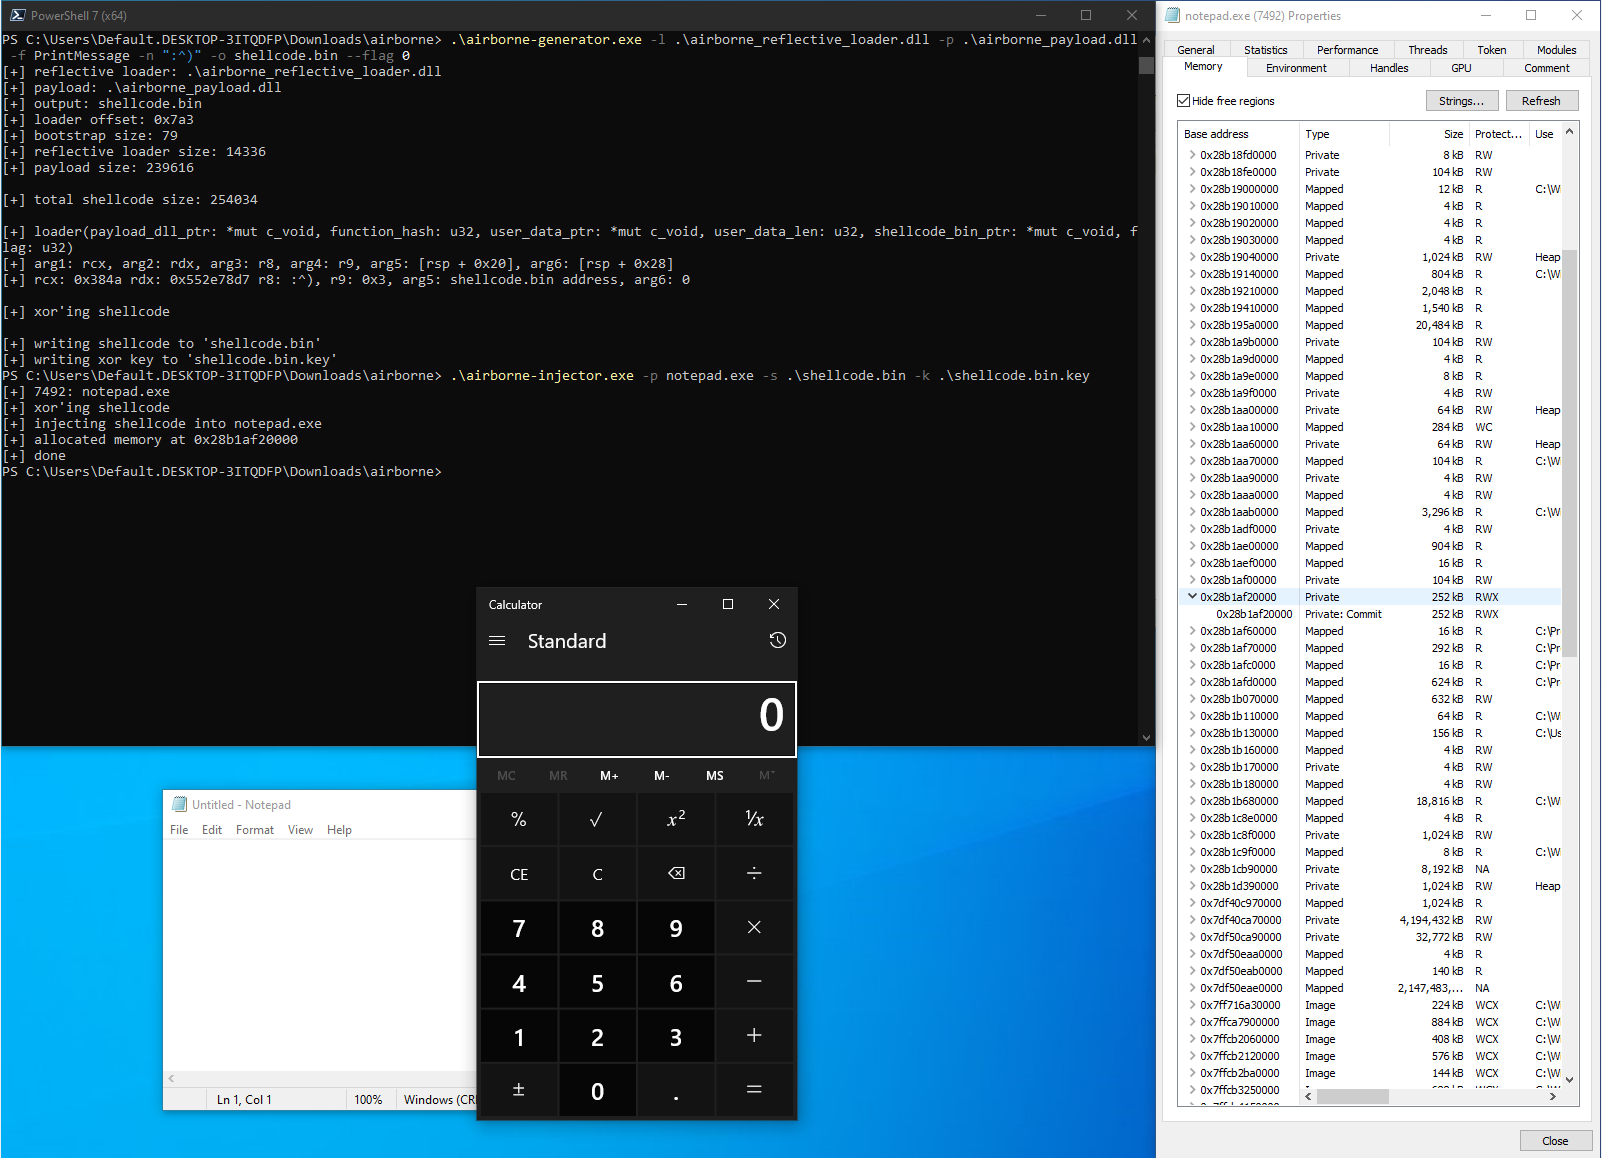
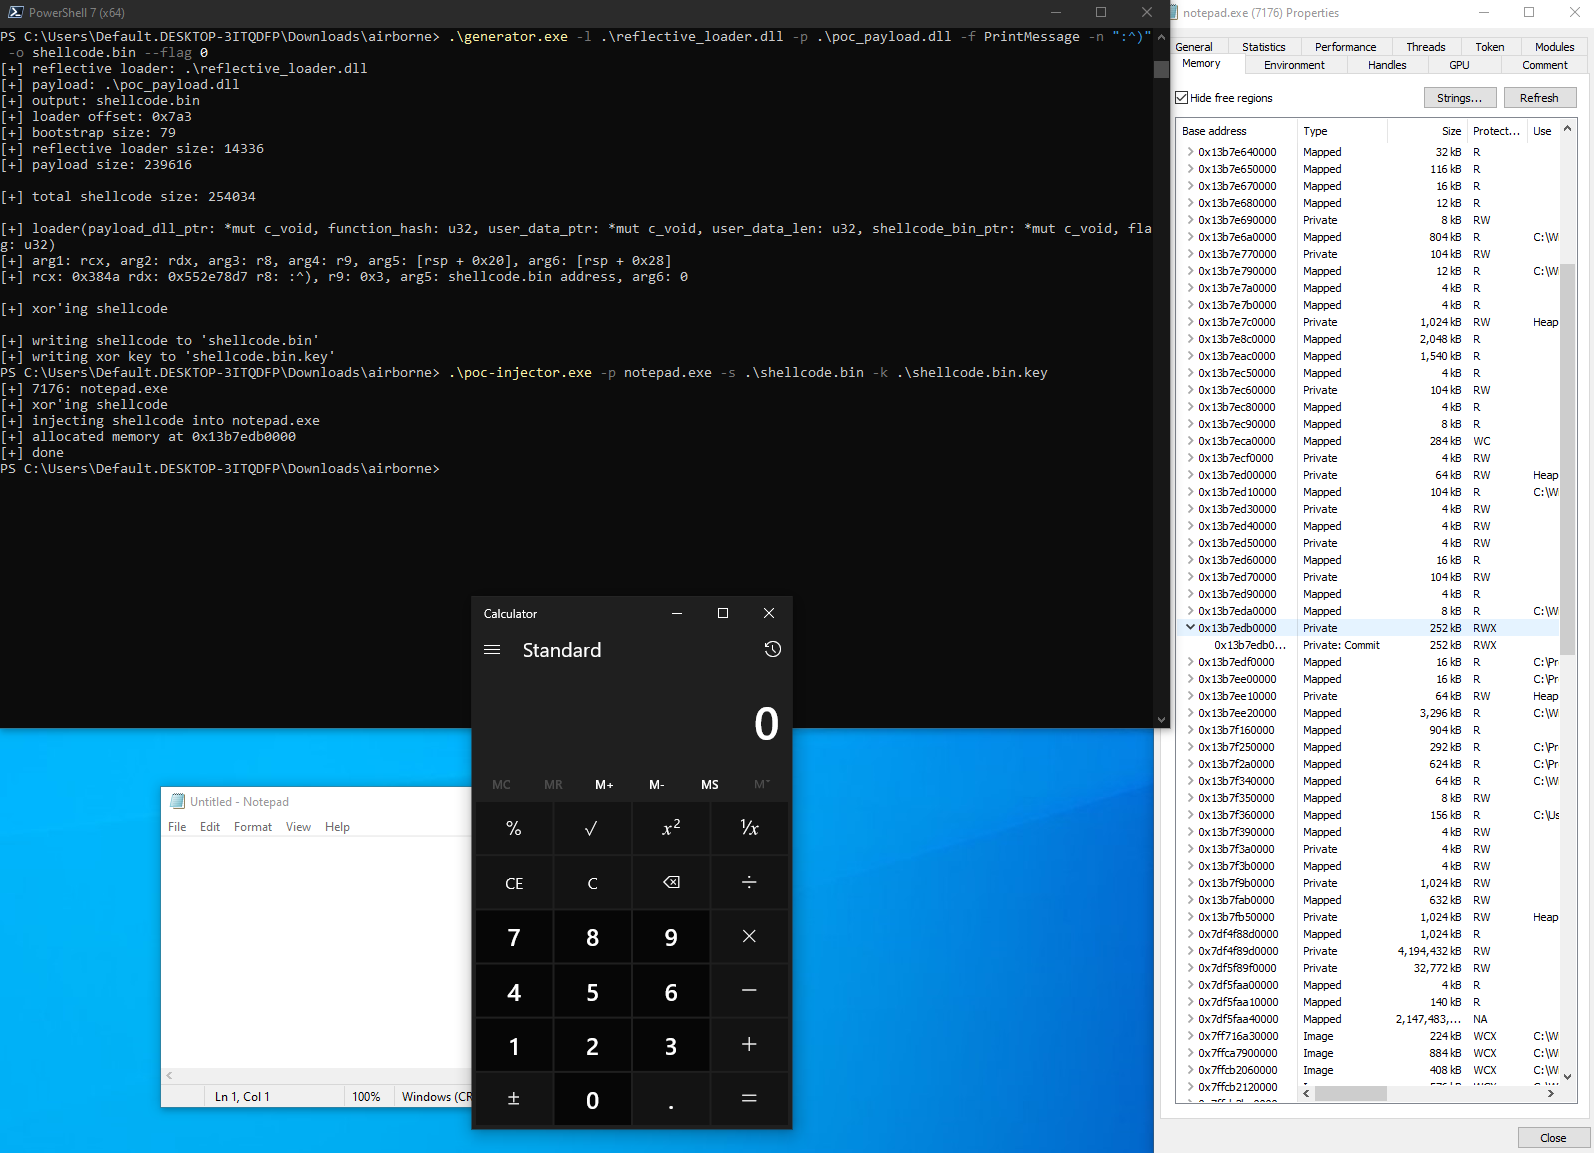
updated the names of the workspace subprojects

diff --git a/injector/src/main.rs b/injector/src/main.rs
@@ -85,7 +85,5 @@ fn parse_args() -> Args {
 }
 
 fn print_usage() {
-    println!(
-        "Usage: airborne-injector.exe -p <process_name> -s <shellcode_path> -k <keyfile_path>"
-    );
+    println!("Usage: poc-injector.exe -p <PROCESS_NAME> -s <SHELLCODE_PATH> -k <KEYFILE_PATH>");
 }

diff --git a/README.md b/README.md
@@ -33,30 +33,31 @@ $ cargo build --release
 1. Generate shellcode containing the loader and the payload:
 
 ```
-Usage: airborne-generator.exe [OPTIONS] --loader <LOADER_PATH> --payload <PAYLOAD_PATH> --function <FUNCTION_NAME> --parameter <PARAMETER> --output <OUTPUT_PATH>
+Usage: generator.exe [OPTIONS] --loader <LOADER_PATH> --payload <PAYLOAD_PATH> --function <FUNCTION_NAME> --parameter <PARAMETER> --output <OUTPUT_PATH>
 
 Options:
--l, --loader <LOADER_PATH>      Path to the sRDI loader DLL
--p, --payload <PAYLOAD_PATH>    Path to the payload DLL
--f, --function <FUNCTION_NAME>  Name of the function to call in the payload DLL
--n, --parameter <PARAMETER>     Parameter to pass to the function
--o, --output <OUTPUT_PATH>      Path to the output file
--f, --flag <FLAG>               Flag to pass to the loader (by default DllMain is called) [default: 0]
--h, --help                      Print help
--V, --version                   Print version
+  -l, --loader <LOADER_PATH>      Path to the sRDI loader DLL
+  -p, --payload <PAYLOAD_PATH>    Path to the payload DLL
+  -f, --function <FUNCTION_NAME>  Name of the function to call in the payload DLL
+  -n, --parameter <PARAMETER>     Parameter to pass to the function
+  -o, --output <OUTPUT_PATH>      Path to the output file
+  -f, --flag <FLAG>               Flag to pass to the loader (by default DllMain is called) [default: 0]
+  -h, --help                      Print help
+  -V, --version                   Print version
 ```
 
 2. Inject the created shellcode into target:
 
 ```
-Usage: airborne-injector.exe -p <process_name> -s <shellcode_path> -k <keyfile_path>
+Usage: poc-injector.exe -p <PROCESS_NAME> -s <SHELLCODE_PATH> -k <KEYFILE_PATH>
 ```
 
-3. Depending on the flag passed to the generator, either payload's `DllMain` or user defined function will run:
+3. Depending on the flag passed to the generator, either payload's `DllMain` with `DLL_PROCESS_ATTACH` or user defined function will run:
 
-![Payload's DllMain execution with the default flag (0)](/.github/docs/dllmain-exec.png)
-
-![Payload's user defined function execution with the modified flag (1)](/.github/docs/userfunction-exec.png)
+<div align="center">
+    <img src=".github/docs/dllmain-exec.png" alt="Payload's DllMain execution with the default flag (0)" width="90%">
+    <img src=".github/docs/userfunction-exec.png" alt="Payload's user defined function execution with the modified flag (1)" width="90%">
+</div>
 
 ### Disclaimer
 
